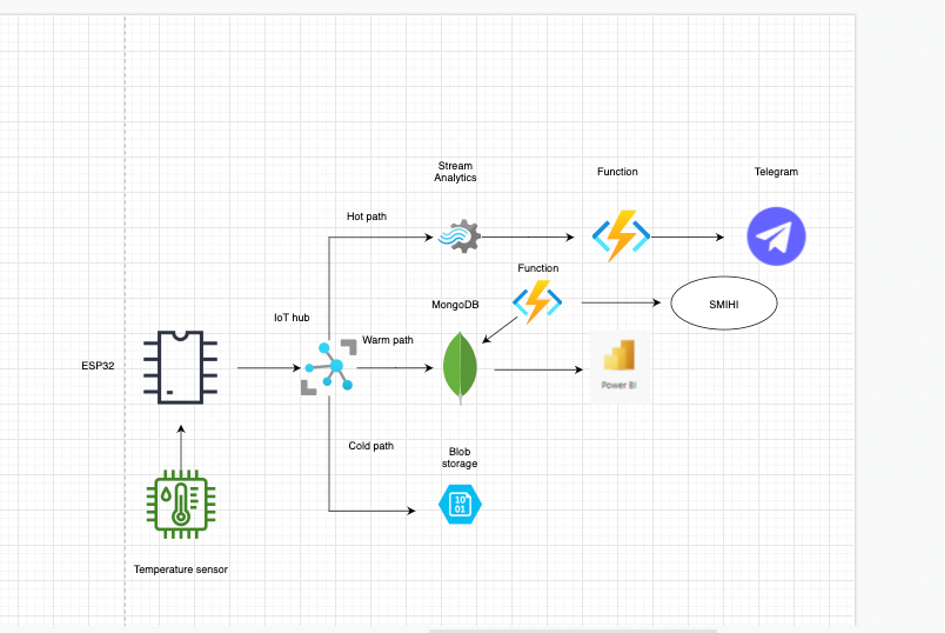
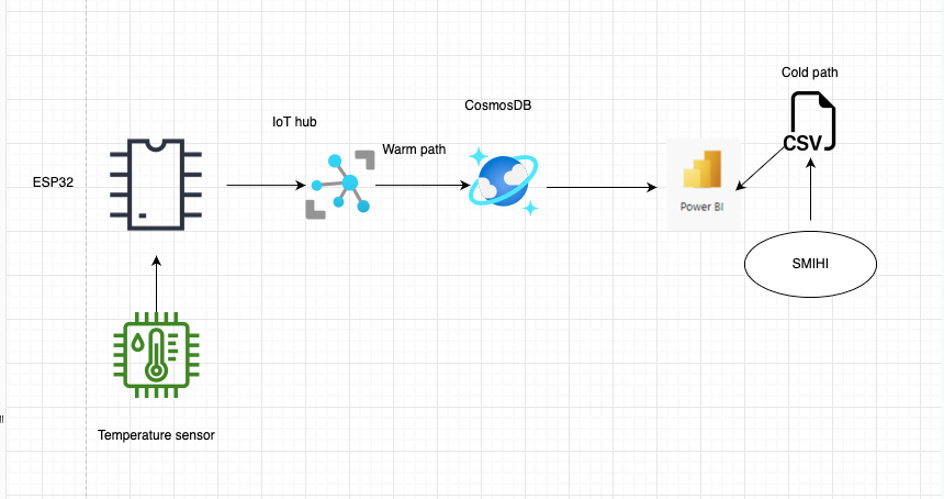
new update on readme and pictures.

diff --git a/README.md b/README.md
@@ -34,9 +34,9 @@ Varje DS18B20 temperatursensor har en unik 64-bitars seriell kod. Detta gör att
 <img src="esp32.png" width="600"/>
 	
 1. Anslut DS18B20-givaren till ESP32-enheten enligt instruktionerna i givarens dokumentation.
-2. Anslut ESP32-enheten till ditt lokala nätverk och konfigurera den att ansluta till din Azure IoT-hubb.
+2. Anslut ESP32-enheten till ditt lokala nätverk och konfigurera den för att ansluta till din Azure IoT-hubb.
 3. Skapa en Cosmos DB-databas och konfigurera din Azure IoT-hubb att skicka data till den.
-4. Använd Power BI för att visualisera data från Cosmos DB.
+4. Logga in ditt Azure konto i Power BI för att visualisera data från Cosmos DB.
 
 
 Flödesschema:
@@ -54,14 +54,12 @@ Flödesschema:
 
 - IoT Hub – Azure
 
-- MongoDB atlas – Multi – cloud databas service. Förenklar bade utrullningen/deploy:andet och hur man hanterar sin databas on-demand. När man än kan tänkas behöva det.
-I detta fallet så hämtar jag datat från IoT hubben som skickades ifrån espn32. 
+- Cosmos DB för att lagra datan via Warm path
 
 - Power Bi – Datavisulisering, bi vertyg. Här väljer jag PowerBi för att visualisera min data för att kunna tolka dem värdena som jag har på ett snyggt och enkelt sätt.
 
-- Smhi – Här väljer jag att hämta data från SMHI för att se det går att hämta ut det till mongodbatlas. Detta för att ha ett liknande dataunderlagt då de består av temperatur och det är något jag mäter/använder mig utav i detta projekt.
+- Smhi – Här väljer jag att hämta data från SMHI i Cold path format.. Detta för att ha ett liknande dataunderlagt då de består av temperatur och det är något jag mäter/använder mig utav i detta projekt.
 
-- Blob storage – Container, för att långtidsspara min data.
 
 ## Avslutning
 Med hjälp av detta projekt kan du enkelt mäta temperaturen i ett kylskåp och spara data till molnet. Detta kan användas för att övervaka temperaturen i kylskåpet och förhindra att livsmedel blir dåliga.
